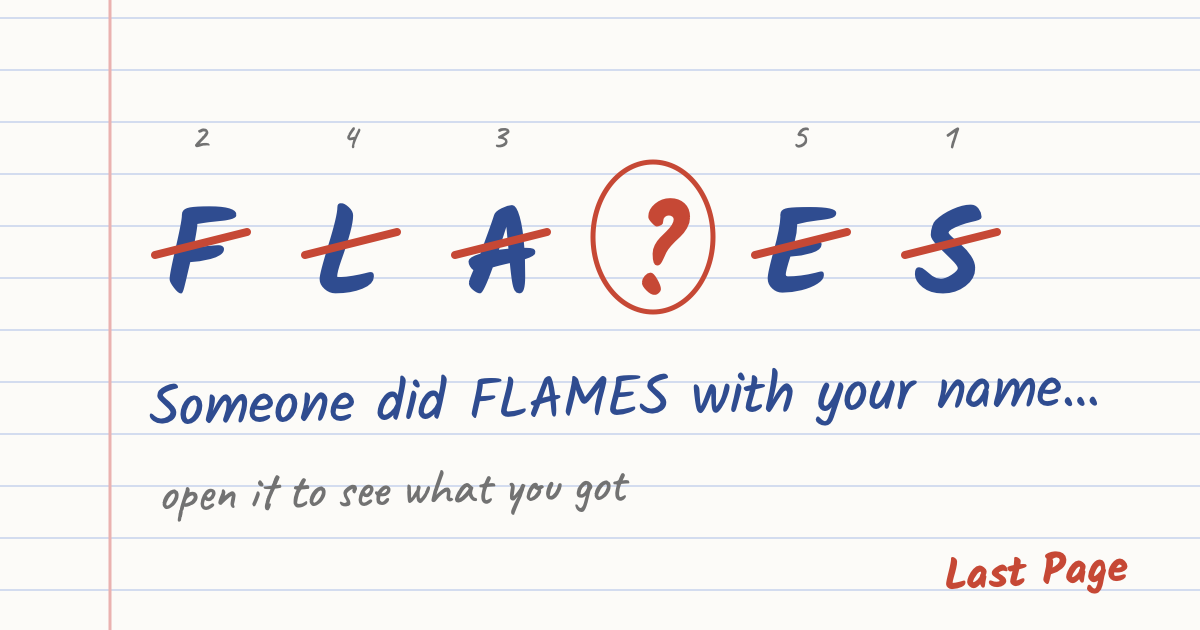
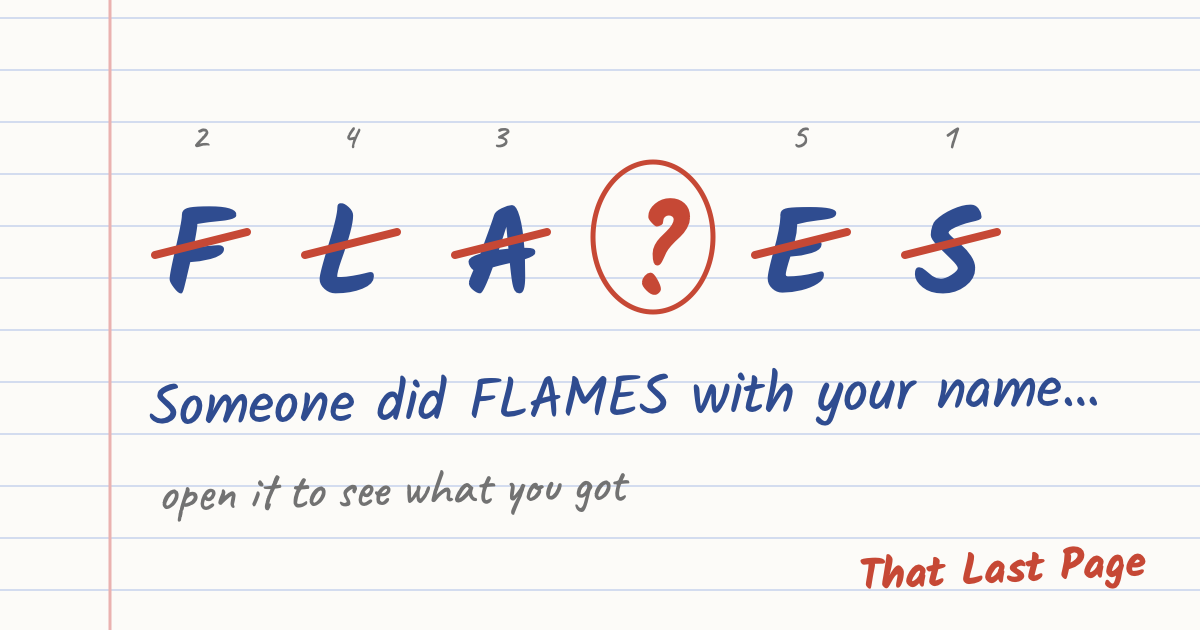
Rename to That Last Page on the website

Changed region(s): [[0.7092, 0.8746, 0.9558, 0.9349]]

diff --git a/flames/index.html b/flames/index.html
@@ -5,10 +5,10 @@
 <script>if(location.hostname==="akahkhanna.github.io"){location.replace("https://thatlastpage.vercel.app"+location.pathname.replace(/^\/lastpage-site/,"")+location.search+location.hash)}</script>
 
 <meta name="viewport" content="width=device-width, initial-scale=1, viewport-fit=cover">
-<title>FLAMES – Last Page</title>
+<title>FLAMES – That Last Page</title>
 <meta name="description" content="Someone did FLAMES with your name. Open it to see what you got, then try your own.">
 <meta property="og:type" content="website">
-<meta property="og:site_name" content="Last Page">
+<meta property="og:site_name" content="That Last Page">
 <meta property="og:title" content="Someone did FLAMES with your name…">
 <meta property="og:description" content="Open it to see what you got. Then try your own.">
 <meta property="og:image" content="https://thatlastpage.vercel.app/flames/preview.png">
@@ -50,7 +50,7 @@
 
   <footer>
     <a class="app" href="https://apps.apple.com/app/id6831963769">Get the whole notebook (with the teacher!) on iPhone →</a>
-    <p class="small">Last Page: the back page of your school notebook. FLAMES, book cricket, noughts &amp; crosses… just don't let Ma'am catch you.</p>
+    <p class="small">That Last Page: the back page of your school notebook. FLAMES, book cricket, noughts &amp; crosses… just don't let Ma'am catch you.</p>
     <p class="small">Names stay in the link and on your phone; they're never sent to us. <a href="../privacy.html">Privacy</a></p>
   </footer>
 </main>

diff --git a/hangman/index.html b/hangman/index.html
@@ -5,10 +5,10 @@
 <script>if(location.hostname==="akahkhanna.github.io"){location.replace("https://thatlastpage.vercel.app"+location.pathname.replace(/^\/lastpage-site/,"")+location.search+location.hash)}</script>
 
 <meta name="viewport" content="width=device-width, initial-scale=1, viewport-fit=cover">
-<title>Guess my word – Last Page</title>
+<title>Guess my word – That Last Page</title>
 <meta name="description" content="Someone sent you a hangman or film challenge. Can you guess it?">
 <meta property="og:type" content="website">
-<meta property="og:site_name" content="Last Page">
+<meta property="og:site_name" content="That Last Page">
 <meta property="og:title" content="Can you guess it?">
 <meta property="og:description" content="A hangman / Bollywood / Hollywood challenge from the back of the notebook. Open it and play.">
 <meta property="og:image" content="https://thatlastpage.vercel.app/hangman/preview.png">
@@ -60,7 +60,7 @@
 
   <footer>
     <a class="app" href="https://apps.apple.com/app/id6831963769">Get the whole notebook (with the teacher!) on iPhone →</a>
-    <p class="small">Last Page: the back page of your school notebook. FLAMES, book cricket, hangman… just don't let Ma'am catch you.</p>
+    <p class="small">That Last Page: the back page of your school notebook. FLAMES, book cricket, hangman… just don't let Ma'am catch you.</p>
     <p class="small">The word stays in the link; it's never sent to us. <a href="../privacy.html">Privacy</a></p>
   </footer>
 </main>

diff --git a/privacy.html b/privacy.html
@@ -2,12 +2,12 @@
 <html lang="en"><head><meta charset="utf-8">
 <script>if(location.hostname==="akahkhanna.github.io"){location.replace("https://thatlastpage.vercel.app"+location.pathname.replace(/^\/lastpage-site/,"")+location.search+location.hash)}</script>
 <meta name="viewport" content="width=device-width, initial-scale=1">
-<title>Last Page – Privacy Policy</title><link rel="stylesheet" href="style.css"></head>
+<title>That Last Page – Privacy Policy</title><link rel="stylesheet" href="style.css"></head>
 <body><main>
 <h1>Privacy Policy</h1>
-<p class="small">Last Page · Effective 7 November 2026</p>
+<p class="small">That Last Page · Effective 7 November 2026</p>
 
-<p>Last Page does not collect, store or share any personal data. There is no account, no advertising, no analytics and no tracking, and the app contains no third-party code that does any of these.</p>
+<p>That Last Page does not collect, store or share any personal data. There is no account, no advertising, no analytics and no tracking, and the app contains no third-party code that does any of these.</p>
 
 <h2>What stays on your iPhone</h2>
 <p>Your notes and drawings, the name, class and school you write on the cover, friends' names you type into games, and your game results and teacher score are saved only on your device. They are never sent to us or anyone else. Deleting the app deletes them.</p>

diff --git a/index.html b/index.html
@@ -2,9 +2,9 @@
 <html lang="en"><head><meta charset="utf-8">
 <script>if(location.hostname==="akahkhanna.github.io"){location.replace("https://thatlastpage.vercel.app"+location.pathname.replace(/^\/lastpage-site/,"")+location.search+location.hash)}</script>
 <meta name="viewport" content="width=device-width, initial-scale=1">
-<title>Last Page – Support</title><link rel="stylesheet" href="style.css"></head>
+<title>That Last Page – Support</title><link rel="stylesheet" href="style.css"></head>
 <body><main>
-<h1>Last Page</h1>
+<h1>That Last Page</h1>
 <p>The back page of your school notebook, on your iPhone: FLAMES, book cricket, noughts &amp; crosses, dots &amp; boxes, hangman, and Bollywood &amp; Hollywood. Just flip back to your notes before Ma'am sees.</p>
 
 <h2>Need help?</h2>
